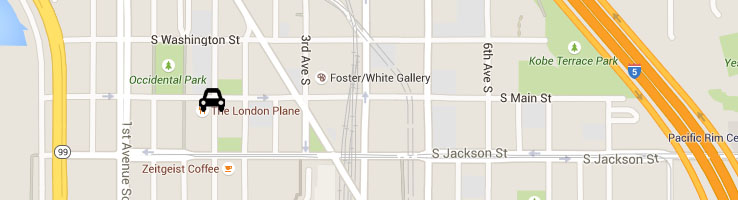
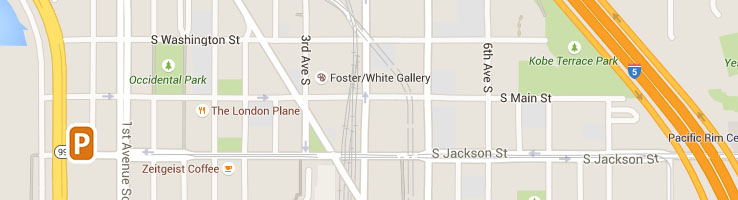
update map images

Changed region(s): [[0.0623, 0.6, 0.1558, 0.84], [0.2493, 0.42, 0.3117, 0.57]]

diff --git a/app/styles/components/_parking-map.scss b/app/styles/components/_parking-map.scss
@@ -16,7 +16,7 @@
 .parking-image {
   height: 100%;
   width: 100%;
-  background: url('/images/google-map-cars.jpg') no-repeat;
+  background: url('/images/google-map-locations.jpg') no-repeat;
   background-size: cover;
 }
 
